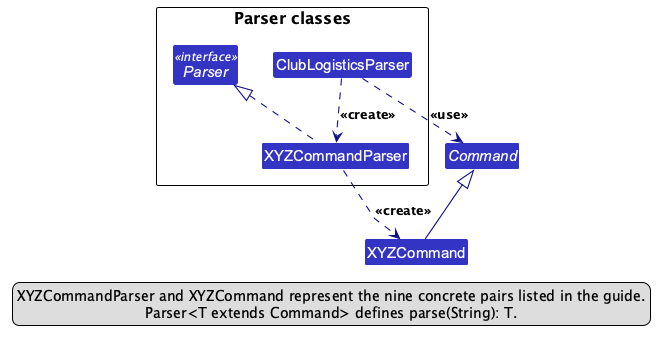
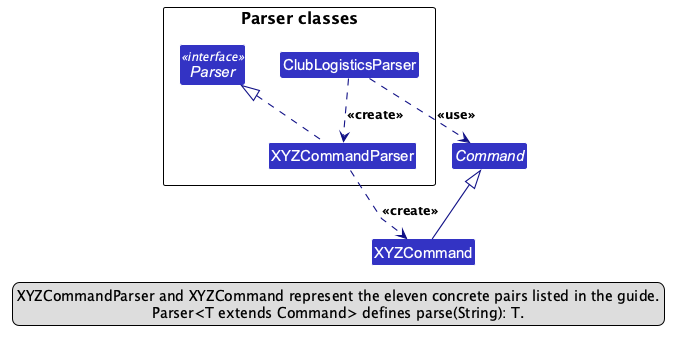
DG: Complete the positional parser inventory
The parser overview omits find from its command table, while the
accompanying diagram says that there are nine concrete command pairs.
The application supports eleven, so the overview gives maintainers an
incomplete and inconsistent map of the parser layer.

Add the find parser and command to the table, update the legend to eleven
pairs, and regenerate the embedded diagram to keep its source and image
consistent.

Fixes #186

diff --git a/docs/DeveloperGuide.md b/docs/DeveloperGuide.md
@@ -126,6 +126,7 @@ How the parsing works:
 | `rename` | `RenameCommandParser` | `RenameCommand` |
 | `list` | `ListCommandParser` | `ListCommand` |
 | `filter` | `FilterCommandParser` | `FilterCommand` |
+| `find` | `FindCommandParser` | `FindCommand` |
 | `issue` | `IssueCommandParser` | `IssueCommand` |
 | `return` | `ReturnCommandParser` | `ReturnCommand` |
 | `clear` | `ClearCommandParser` | `ClearCommand` |
